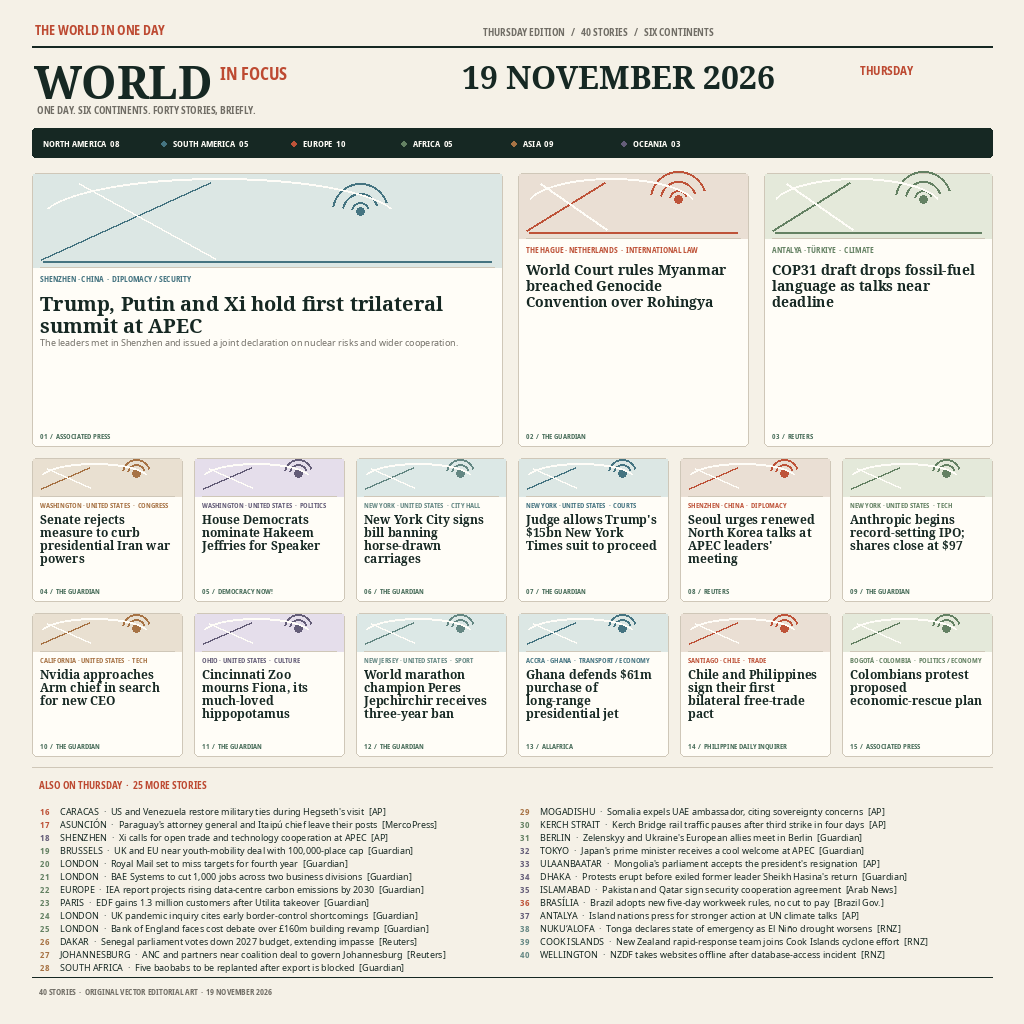
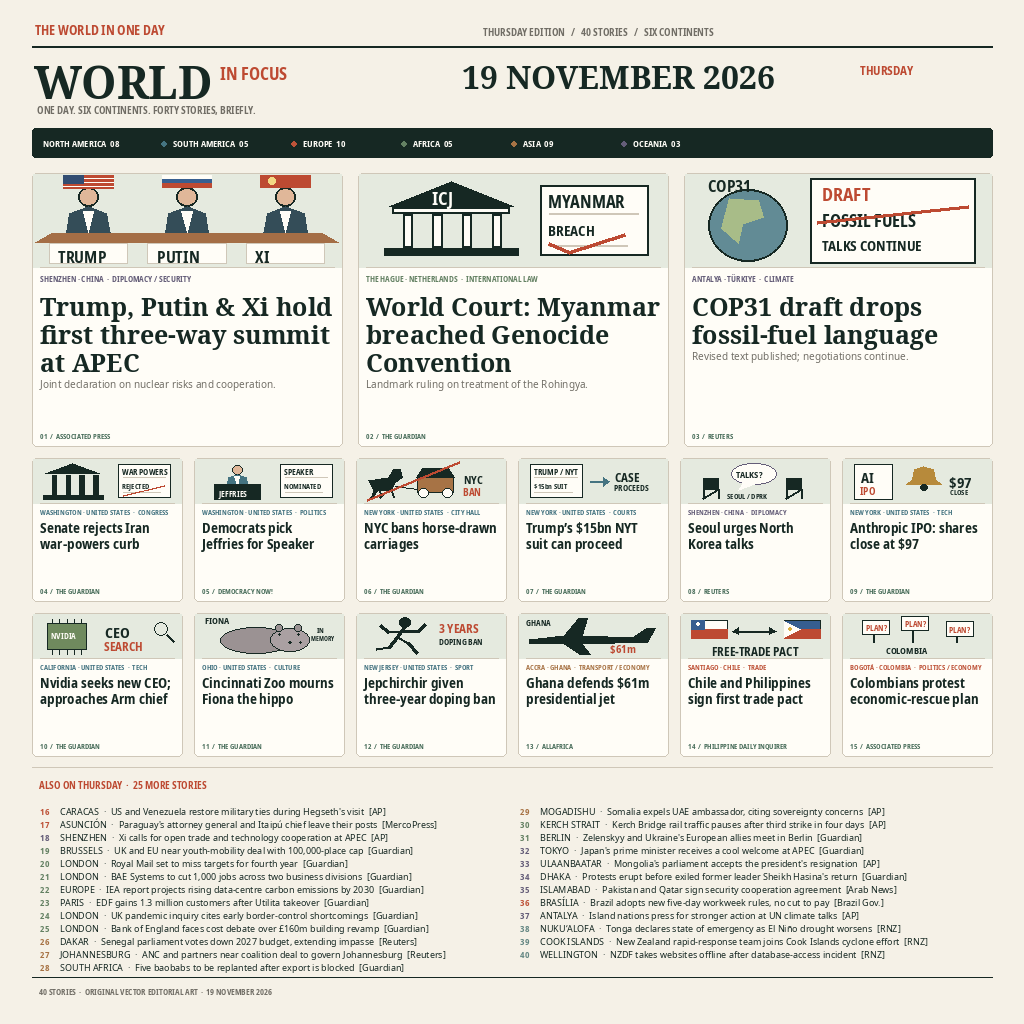
Make news events visible through specific editorial illustrations

Changed region(s): [[0.0312, 0.1562, 0.9688, 0.375], [0.0312, 0.4062, 0.9688, 0.5625], [0.0312, 0.5938, 0.9688, 0.7188]]

diff --git a/renderer.py b/renderer.py
@@ -52,58 +52,226 @@ def rule(d: ImageDraw.ImageDraw, y: int, x0: int = 32, x1: int = 992, color: str
     d.line((x0, y, x1, y), fill=color, width=thickness)
 
 
-def sigil(d: ImageDraw.ImageDraw, coords: tuple[int, int, int, int], idx: int, accent: str, lead: bool) -> None:
+def event_art(d: ImageDraw.ImageDraw, coords: tuple[int, int, int, int], item: dict) -> None:
+    """Original editorial diagrams show an event, never an invented photograph."""
     x0, y0, x1, y1 = coords
-    bg = ["#DCE7E4", "#EADFD4", "#E4E9DA", "#E9E0D1", "#E5DEEB", "#DCE8E6"][idx % 6]
-    d.rectangle(coords, fill=bg)
-    cx, cy = int(x0 + (x1 - x0) * .70), int(y0 + (y1 - y0) * .40)
-    radius = min(28, (x1 - x0) // 5, max(8, (y1 - y0) // 2 - 4))
-    for rr in (radius // 3, radius * 2 // 3, radius):
-        d.arc((cx - rr, cy - rr, cx + rr, cy + rr), 190, 342, fill=accent, width=2)
-    d.ellipse((cx - 4, cy - 4, cx + 4, cy + 4), fill=accent)
-    d.arc((x0 + 7, y0 + 4, x0 + (x1 - x0) * .78, y0 + (y1 - y0) * .94), 196, 344, fill="#FFFDF8", width=2)
-    d.line((x0 + 8, y1 - 8, x0 + (x1 - x0) * .38, y0 + 8), fill=accent, width=2)
-    d.line((x0 + (x1 - x0) * .39, y1 - 8, x0 + (x1 - x0) * .10, y0 + 10), fill="#FFFDF8", width=2)
-    if lead:
-        d.line((x0 + 10, y1 - 6, x1 - 10, y1 - 6), fill=accent, width=2)
+    sx, sy = (x1 - x0) / 300, (y1 - y0) / 100
+    accent = PALETTE[REGIONS.index(item["continent"])]
+    paper, ink = "#FFFDF7", D
+    d.rectangle(coords, fill="#E5EADF")
+
+    def box(b, fill, outline=None, width=2):
+        a, b0, c, e = b
+        d.rectangle((x0+a*sx, y0+b0*sy, x0+c*sx, y0+e*sy), fill=fill, outline=outline, width=max(1, round(width*sx)))
+
+    def poly(points, fill):
+        d.polygon([(x0+x*sx, y0+y*sy) for x, y in points], fill=fill)
+
+    def stroke(points, color=ink, width=3):
+        d.line([(x0+x*sx, y0+y*sy) for x, y in points], fill=color, width=max(1, round(width*sx)))
+
+    def oval(b, fill, outline=None):
+        a, b0, c, e = b
+        d.ellipse((x0+a*sx, y0+b0*sy, x0+c*sx, y0+e*sy), fill=fill, outline=outline, width=max(1, round(2*sx)))
+
+    def txt(x, y, value, size=17, color=ink):
+        size_px = max(6, round(size*sx))
+        xy = (int(x0+x*sx), int(y0+y*sy))
+        bounds = d.textbbox(xy, value, font=ft("bold", size_px))
+        if bounds[2] > x1 or bounds[3] > y1:
+            raise ValueError(f"Illustration label overflows story {item['id']}: {value}")
+        label(d, xy, value, size_px, color, "bold")
+
+    def sheet(x, title, subtitle):
+        box((x, 12, x+105, 88), paper, ink)
+        txt(x+8, 17, title, 17)
+        stroke([(x+9, 42), (x+95, 42)], RULE, 2)
+        txt(x+8, 51, subtitle, 14)
+        stroke([(x+9, 77), (x+85, 77)], RULE, 2)
+
+    def person(x, color=accent):
+        oval((x-10, 15, x+10, 35), "#E0B799", ink)
+        poly([(x-22, 71), (x-18, 43), (x, 35), (x+18, 43), (x+22, 71)], color)
+        poly([(x-5, 40), (x+5, 40), (x, 63)], paper)
+
+    def court():
+        poly([(30, 35), (90, 8), (150, 35)], ink)
+        box((33, 36, 147, 43), paper, ink)
+        for x in (43, 72, 101, 130):
+            box((x, 44, x+9, 79), paper, ink)
+        box((25, 80, 155, 88), ink)
+        txt(72, 12, "ICJ", 18, paper)
+
+    story = item["id"]
+    if story == 1:
+        # Nameplates and national flags identify the three summit participants.
+        for x, name, country in ((54, "TRUMP", "US"), (150, "PUTIN", "RU"), (246, "XI", "CN")):
+            person(x, "#344D58")
+            box((x-24, 2, x+24, 14), paper)
+            if country == "US":
+                for yy in (2, 6, 10, 14):
+                    box((x-24, yy, x+24, yy+2), RED)
+                box((x-24, 2, x-5, 10), "#324D72")
+            elif country == "RU":
+                box((x-24, 6, x+24, 10), "#375F90")
+                box((x-24, 10, x+24, 14), RED)
+            else:
+                box((x-24, 2, x+24, 14), RED)
+                oval((x-17, 4, x-10, 11), "#F3D984")
+            box((x-38, 75, x+38, 96), paper, RULE, 1)
+            txt(x-29, 77, name, 16)
+        poly([(18, 64), (282, 64), (298, 74), (2, 74)], "#A46E46")
+    elif story == 2:
+        court()
+        sheet(177, "MYANMAR", "BREACH")
+        stroke([(185, 75), (205, 84), (260, 65)], RED, 4)
+    elif story == 3:
+        oval((23, 17, 100, 94), "#628B95", ink)
+        poly([(44, 26), (72, 29), (77, 47), (56, 54), (52, 75), (36, 59)], "#A8BC88")
+        txt(23, 0, "COP31", 16)
+        box((123, 5, 285, 96), paper, ink)
+        txt(135, 8, "DRAFT", 18, RED)
+        txt(135, 37, "FOSSIL FUELS", 17)
+        stroke([(130, 52), (278, 35)], RED, 4)
+        txt(135, 67, "TALKS CONTINUE", 14)
+    elif story == 4:
+        poly([(25, 33), (80, 10), (135, 33)], ink)
+        for x in (39, 67, 95, 123):
+            box((x, 38, x+9, 83), ink)
+        box((21, 83, 143, 91), ink)
+        sheet(174, "WAR POWERS", "REJECTED")
+        stroke([(184, 83), (267, 61)], RED, 4)
+    elif story == 5:
+        person(86)
+        box((40, 59, 133, 91), ink)
+        txt(49, 66, "JEFFRIES", 17, paper)
+        sheet(174, "SPEAKER", "NOMINATED")
+    elif story == 6:
+        # Horse, carriage and a prohibition slash: the ordinance, not a generic city.
+        poly([(24, 48), (63, 43), (74, 23), (88, 23), (92, 41), (75, 55), (70, 71), (34, 71)], ink)
+        stroke([(35, 65), (30, 88), (46, 66), (48, 88), (68, 67), (74, 88)], ink, 5)
+        stroke([(79, 62), (123, 70)], ink, 3)
+        box((122, 43, 196, 75), "#A77345", ink)
+        poly([(120, 43), (133, 22), (185, 22), (198, 43)], ink)
+        for x in (135, 184):
+            oval((x-10, 68, x+10, 88), paper, ink)
+        stroke([(22, 94), (207, 8)], RED, 7)
+        txt(218, 31, "NYC", 23)
+        txt(216, 60, "BAN", 20, RED)
+    elif story == 7:
+        sheet(23, "TRUMP / NYT", "$15bn SUIT")
+        stroke([(145, 52), (181, 52)], accent, 5)
+        poly([(184, 52), (171, 42), (171, 62)], accent)
+        txt(196, 23, "CASE", 24)
+        txt(194, 54, "PROCEEDS", 17)
+    elif story == 8:
+        for x in (45, 214):
+            box((x, 44, x+30, 70), ink)
+            stroke([(x, 70), (x, 89), (x+30, 70), (x+30, 89)], ink, 4)
+        oval((102, 10, 193, 58), paper, accent)
+        poly([(126, 54), (116, 72), (148, 57)], paper)
+        txt(113, 21, "TALKS?", 19)
+        txt(94, 74, "SEOUL / DPRK", 15)
+    elif story == 9:
+        # Bell and actual closing price, no fabricated market chart.
+        box((24, 13, 101, 92), paper, ink)
+        txt(38, 21, "AI", 28)
+        txt(35, 57, "IPO", 20, RED)
+        poly([(128, 58), (141, 47), (145, 24), (164, 17), (183, 24), (187, 47), (200, 58)], "#B78A3B")
+        oval((157, 58, 171, 72), ink)
+        txt(215, 28, "$97", 30)
+        txt(217, 65, "CLOSE", 14)
+    elif story == 10:
+        box((30, 21, 108, 81), "#6F8A5E", ink)
+        for x in range(39, 106, 15):
+            stroke([(x, 12), (x, 21)], ink)
+            stroke([(x, 81), (x, 92)], ink)
+        txt(38, 38, "NVIDIA", 17, paper)
+        txt(146, 17, "CEO", 30)
+        txt(145, 55, "SEARCH", 24, RED)
+        oval((246, 20, 273, 48), None, ink)
+        stroke([(270, 46), (285, 62)], ink, 5)
+    elif story == 11:
+        oval((52, 30, 196, 89), "#9B9293", ink)
+        oval((154, 32, 233, 85), "#AAA0A2", ink)
+        for x in (171, 209):
+            oval((x-7, 24, x+7, 40), "#9B9293", ink)
+            oval((x-2, 44, x+2, 49), ink)
+        oval((190, 62, 195, 67), ink)
+        oval((211, 62, 216, 67), ink)
+        txt(21, 1, "FIONA", 18)
+        txt(248, 26, "IN", 15)
+        txt(237, 46, "MEMORY", 12)
+    elif story == 12:
+        oval((87, 9, 109, 31), ink)
+        stroke([(97, 30), (83, 54), (104, 68), (123, 89)], ink, 7)
+        stroke([(83, 54), (66, 76), (40, 81)], ink, 7)
+        stroke([(92, 40), (124, 40), (139, 24)], ink, 6)
+        stroke([(91, 39), (63, 42), (48, 27)], ink, 6)
+        txt(167, 14, "3 YEARS", 25, RED)
+        txt(168, 51, "DOPING BAN", 17)
+    elif story == 13:
+        # Aircraft silhouette and attributed purchase price.
+        poly([(22, 58), (92, 48), (120, 11), (139, 11), (128, 48), (231, 53), (259, 34), (276, 34), (260, 65), (128, 69), (145, 91), (123, 91), (90, 67), (22, 66)], ink)
+        txt(16, 8, "GHANA", 17)
+        txt(185, 62, "$61m", 23, RED)
+    elif story == 14:
+        box((21, 15, 94, 55), paper, ink)
+        box((22, 35, 94, 55), RED)
+        box((22, 15, 48, 35), "#365E90")
+        oval((31, 20, 37, 26), paper)
+        box((209, 15, 282, 55), "#365E90", ink)
+        box((209, 35, 282, 55), RED)
+        poly([(210, 16), (242, 35), (210, 54)], paper)
+        oval((217, 31, 223, 37), "#D8AF42")
+        stroke([(107, 39), (190, 39)], ink, 5)
+        poly([(104, 39), (117, 31), (117, 47)], ink)
+        poly([(193, 39), (180, 31), (180, 47)], ink)
+        txt(63, 66, "FREE-TRADE PACT", 24)
+    elif story == 15:
+        for x, yy in ((40, 15), (119, 6), (209, 18)):
+            stroke([(x+22, yy+30), (x+22, 65)], ink, 4)
+            box((x, yy, x+55, yy+32), paper, ink)
+            txt(x+7, yy+5, "PLAN?", 16, RED)
+        txt(88, 70, "COLOMBIA", 19)
+    else:
+        raise ValueError(f"Missing event-specific illustration for story {story}")
 
 
 def draw_card(d: ImageDraw.ImageDraw, item: dict, rect: tuple[int, int, int, int], ordinal: int, lead: bool = False) -> None:
     x0, y0, x1, y1 = rect
-    accent = PALETTE[ordinal % 6]
+    accent = PALETTE[REGIONS.index(item["continent"])]
     d.rounded_rectangle(rect, radius=5, fill="#FFFDF7", outline=RULE, width=1)
-    main_lead = bool(lead and item["id"] == 1)
-    image_h = 94 if main_lead else 65 if lead else 38
-    sigil(d, (x0 + 1, y0 + 1, x1 - 1, y0 + image_h), ordinal, accent, lead)
+    image_h = 94 if lead else 45
+    event_art(d, (x0 + 1, y0 + 1, x1 - 1, y0 + image_h), item)
     metadata = f"{item['place'].upper()}  ·  {item['desk']}"
     meta = ft("bold", 8 if lead else 7)
     if d.textbbox((0, 0), metadata, font=meta)[2] > x1 - x0 - 16:
-        while metadata and d.textbbox((0, 0), metadata + "…", font=meta)[2] > x1 - x0 - 16:
-            metadata = metadata[:-1]
-        metadata = metadata.rstrip() + "…"
+        metadata = item["place"].upper()
+    if d.textbbox((0, 0), metadata, font=meta)[2] > x1 - x0 - 16:
+        raise ValueError(f"Place label too wide in story {item['id']}")
     label(d, (x0 + 8, y0 + image_h + (6 if lead else 4)), metadata, 8 if lead else 7, accent, "bold")
-    headline_size = 20 if main_lead else 14 if lead else 12
-    title_font = ft("serif", headline_size)
-    text_rows = linebreak(d, item["headline"], x1 - x0 - 16, title_font)
+    headline_size = 25 if lead else 14
+    kind = "serif" if lead else "bold"
+    title_font = ft(kind, headline_size)
+    text_rows = linebreak(d, item["display_headline"], x1 - x0 - 16, title_font)
     ty = y0 + image_h + (22 if lead else 15)
-    row_gap = headline_size + 2 if lead else 13
-    visible_rows = min(len(text_rows), 3 if lead else 4)
-    if visible_rows < len(text_rows) and visible_rows:
-        text_rows[visible_rows - 1] = text_rows[visible_rows - 1].rstrip(".,;: ") + "…"
-    for row, text in enumerate(text_rows[:visible_rows]):
-        label(d, (x0 + 8, ty + row * row_gap), text, headline_size, D, "serif")
+    row_gap = 28 if lead else 16
     source_y = y1 - 15
-    if main_lead and item.get("dek"):
-        dy = ty + visible_rows * row_gap + 3
-        available = source_y - dy - 3
-        if available > 14:
-            f = ft("sans", 9)
-            rows = linebreak(d, item["dek"], x1 - x0 - 18, f)
-            visible = rows[:min(2, available // 12)]
-            if len(rows) > len(visible) and visible:
-                visible[-1] = visible[-1].rstrip(".,;: ") + "…"
-            for row, text in enumerate(visible):
-                label(d, (x0 + 8, dy + row * 12), text, 9, G)
+    if len(text_rows) > 4 or any(d.textbbox((0, 0), text, font=title_font)[2] > x1-x0-16 for text in text_rows):
+        raise ValueError(f"Headline does not fit story {item['id']}: {text_rows}")
+    if d.textbbox((x0+8, ty+(len(text_rows)-1)*row_gap), text_rows[-1], font=title_font)[3] > source_y - 2:
+        raise ValueError(f"Headline overlaps source in story {item['id']}")
+    for row, text in enumerate(text_rows):
+        label(d, (x0 + 8, ty + row * row_gap), text, headline_size, D, kind)
+    if lead:
+        dy = ty + len(text_rows) * row_gap + 4
+        f = ft("sans", 10)
+        deck_rows = linebreak(d, item["display_dek"], x1 - x0 - 18, f)
+        if dy + len(deck_rows) * 13 > source_y - 2:
+            raise ValueError(f"Summary does not fit story {item['id']}")
+        for row, text in enumerate(deck_rows):
+            label(d, (x0 + 8, dy + row * 13), text, 10, G)
     label(d, (x0 + 8, source_y), f"{item['id']:02}  /  {item['source'].upper()}", 7, "#476C59", "bold")
     rule(d, y0 + image_h, x0 + 8, x1 - 8)
 
@@ -157,7 +325,7 @@ def build() -> Image.Image:
             d.ellipse((px-12, 141, px-7, 146), fill=PALETTE[i])
     leads = [s for s in stories if s.get("lead")]
     x, top = 32, 173
-    for width, item in zip((470, 230, 228), leads, strict=True):
+    for width, item in zip((310, 310, 308), leads, strict=True):
         draw_card(d, item, (x, top, x + width, top + 273), item["id"] - 1, True)
         x += width + 16
     small = stories[3:15]

diff --git a/tests/test_visual_contract.py b/tests/test_visual_contract.py
@@ -1,0 +1,42 @@
+"""Regression coverage for the evidence-driven visual-storytelling revision."""
+import hashlib
+import io
+import json
+from pathlib import Path
+import unittest
+
+from PIL import Image, ImageDraw
+import renderer
+
+ROOT = Path(__file__).resolve().parents[1]
+STORIES = json.loads((ROOT / "story-data.json").read_text())["stories"]
+
+
+class VisualStorytellingTests(unittest.TestCase):
+    def test_each_featured_event_has_distinct_original_art(self):
+        hashes = set()
+        for story in STORIES[:15]:
+            image = Image.new("RGB", (300, 100), renderer.P)
+            renderer.event_art(ImageDraw.Draw(image), (0, 0, 299, 99), story)
+            hashes.add(hashlib.sha256(image.tobytes()).hexdigest())
+            small = Image.new("RGB", (150, 45), renderer.P)
+            renderer.event_art(ImageDraw.Draw(small), (0, 0, 149, 44), story)
+            self.assertTrue(story["display_headline"])
+            self.assertLessEqual(len(story["display_headline"]), 60)
+        self.assertEqual(len(hashes), 15)
+
+    def test_render_matches_committed_artwork_without_silent_overflow(self):
+        # build raises if a featured headline, summary or art label does not fit.
+        output = io.BytesIO()
+        renderer.build().save(output, format="PNG", optimize=True, compress_level=9)
+        self.assertEqual(output.getvalue(), (ROOT / "entry.png").read_bytes())
+
+    def test_climate_illustration_remains_a_draft_and_court_names_rohingya(self):
+        climate, court = STORIES[2], STORIES[1]
+        self.assertIn("draft", climate["display_headline"].lower())
+        self.assertIn("continue", climate["display_dek"].lower())
+        self.assertIn("Rohingya", court["display_dek"])
+
+
+if __name__ == "__main__":
+    unittest.main()

diff --git a/README.md b/README.md
@@ -4,7 +4,7 @@
 [![rank](https://make.fun/badge/news-image-20261119/Celebez/makefun-news-image-19nov2026/rank.svg)](https://make.fun/bounty/news-image-20261119/leaderboard?utm_source=github&utm_medium=readme&utm_campaign=news-image-20261119)
 [![reward](https://make.fun/badge/news-image-20261119/Celebez/makefun-news-image-19nov2026/reward.svg)](https://make.fun/bounty/news-image-20261119?utm_source=github&utm_medium=readme&utm_campaign=news-image-20261119)
 
-A one-page world-news front page for Thursday, 19 November 2026: 40 attributed stories across six continents, with a prominent date, a single lead story and original code-drawn illustration. The image is self-contained; its small offline entrypoint validates and copies the PNG.
+A one-page world-news front page for Thursday, 19 November 2026: 40 attributed stories across six continents, with a prominent date, three readable leads and 15 original event-specific editorial illustrations. The image is self-contained; its small offline entrypoint validates and copies the PNG.
 
 ## Run it
 
